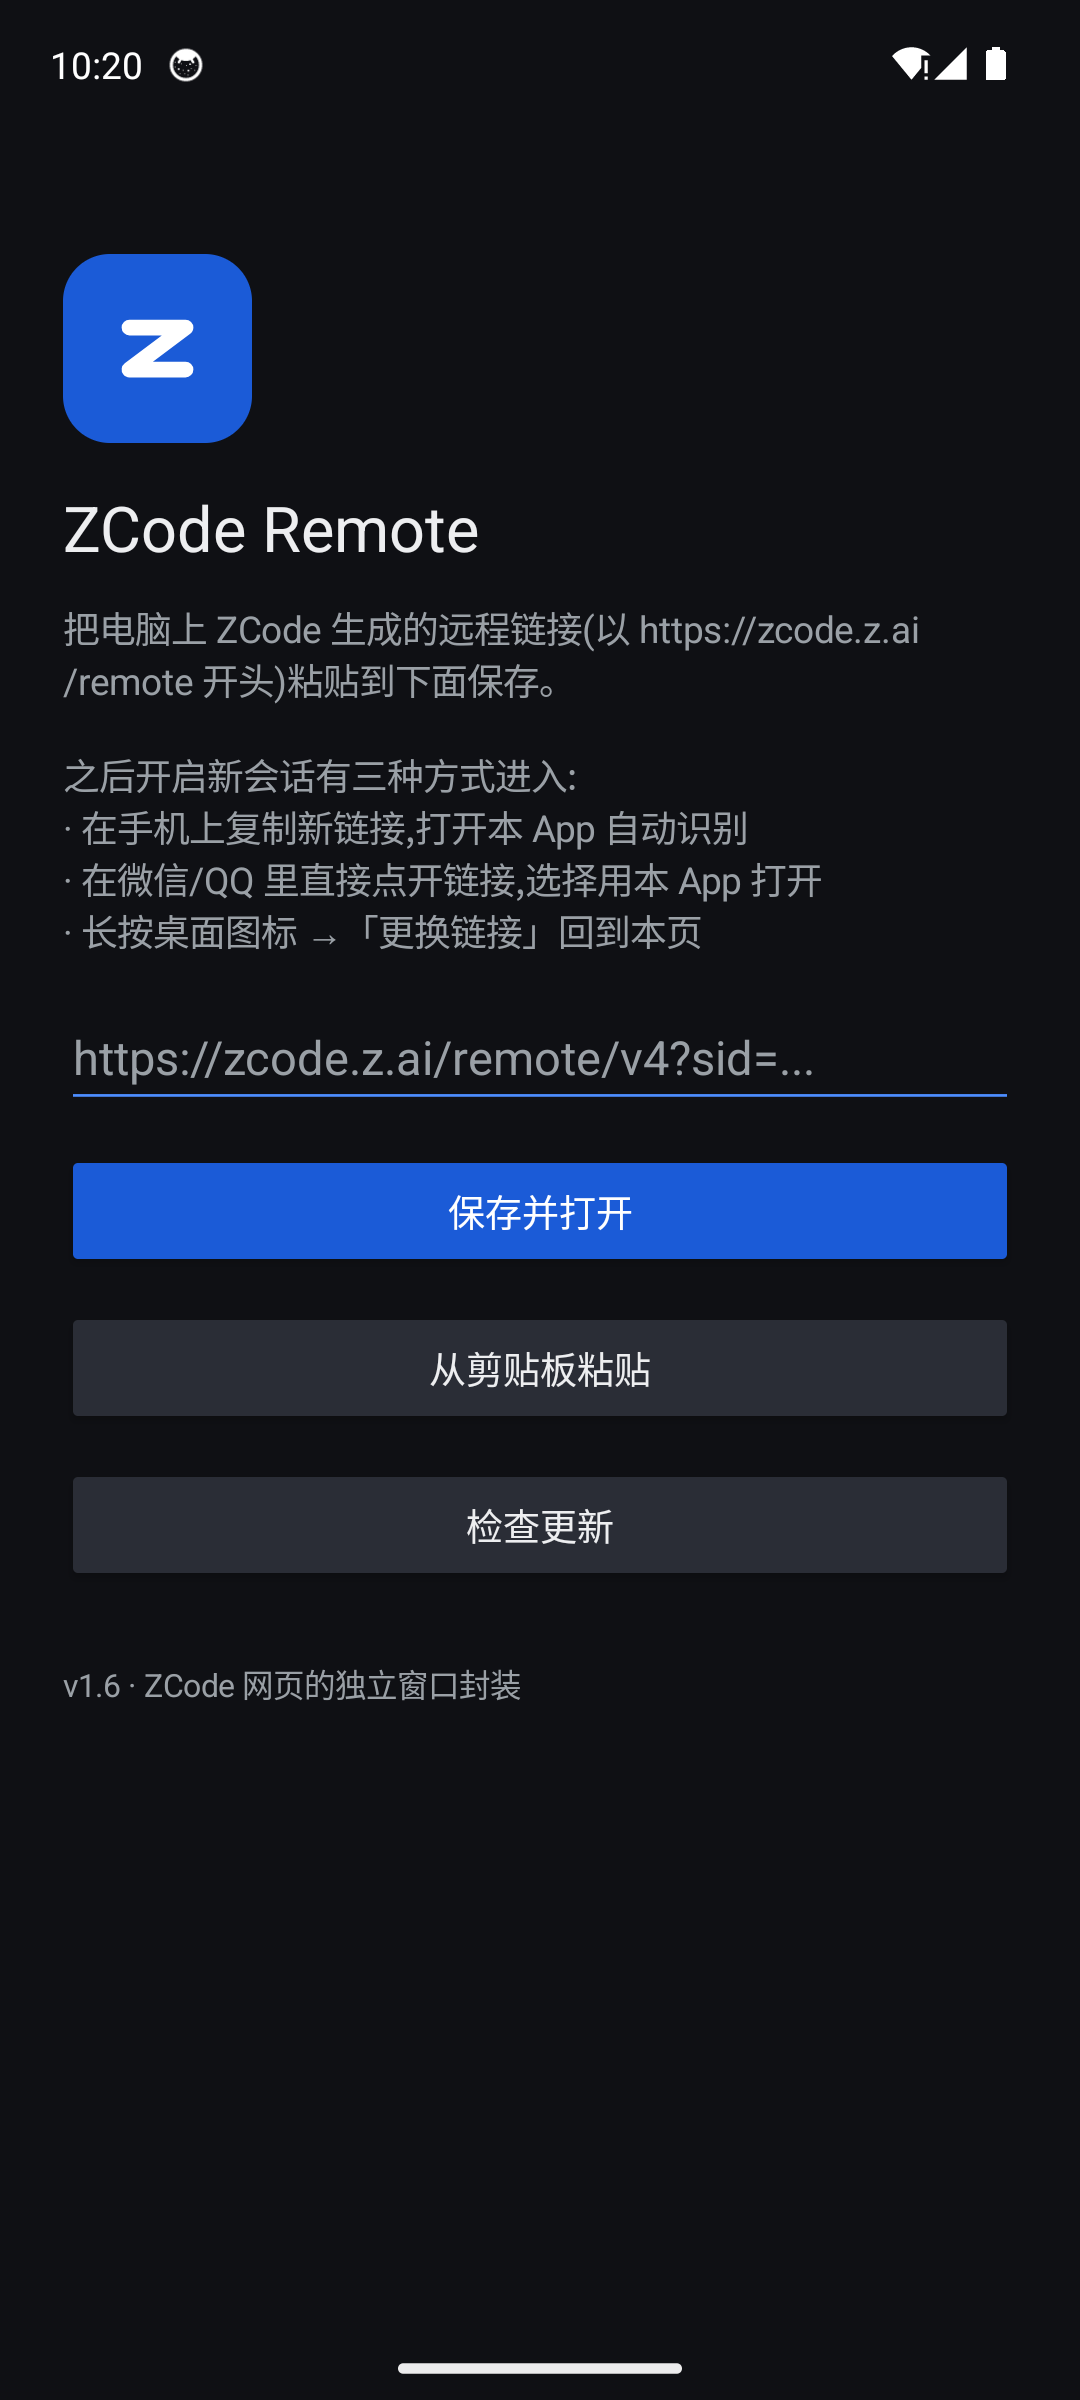
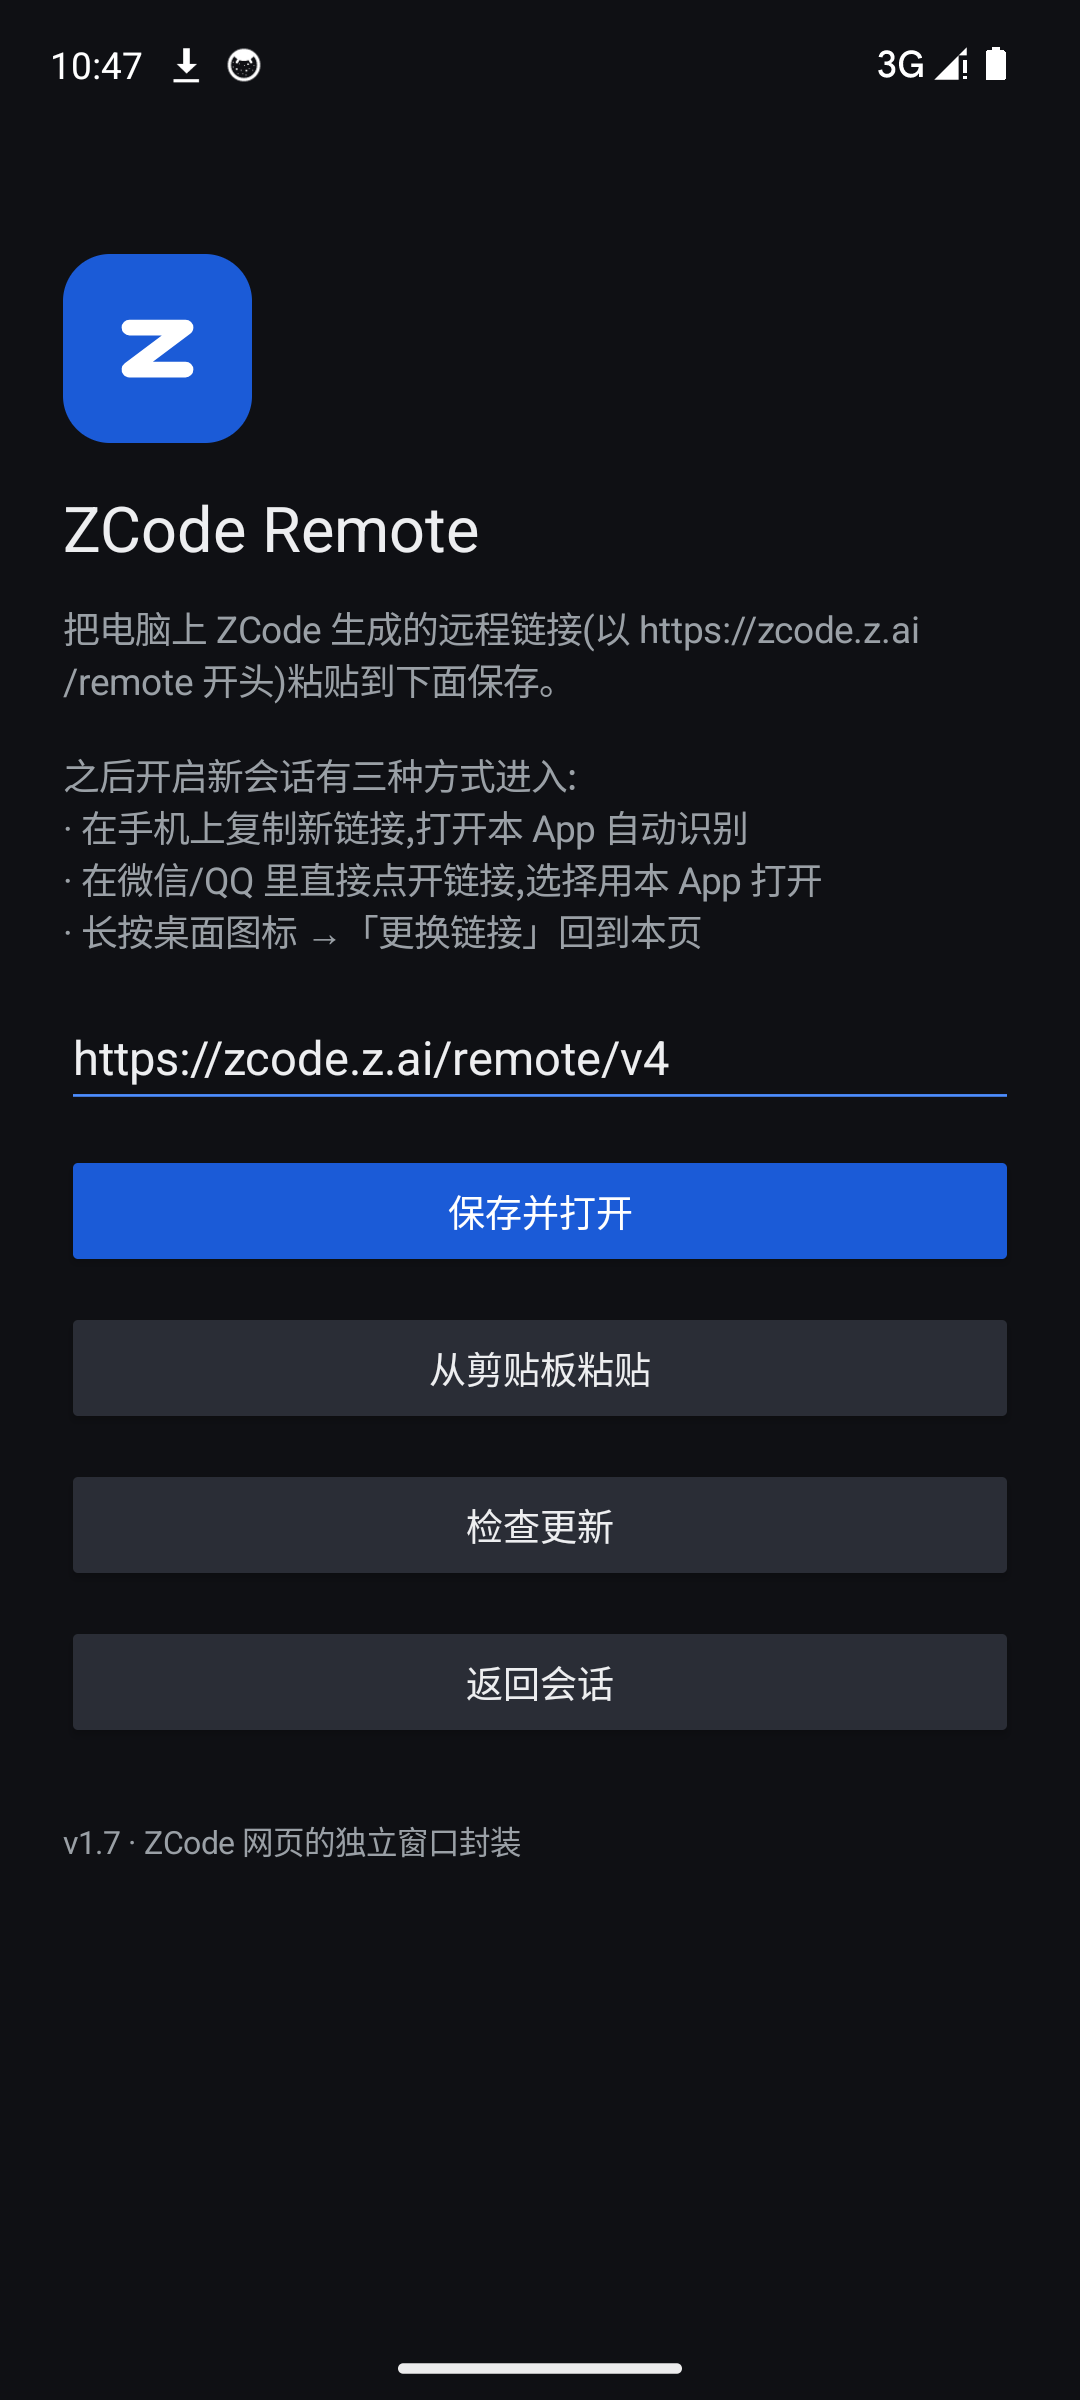
v1.7: 菜单升级为功能面板(常用操作/设置开关/清除网页数据/关于);设置页加返回会话;悬浮按钮与自动更新可开关

diff --git a/app/src/main/java/com/zcode/remote/MainActivity.java b/app/src/main/java/com/zcode/remote/MainActivity.java
@@ -42,6 +42,7 @@ import android.widget.ImageView;
 import android.widget.LinearLayout;
 import android.widget.ProgressBar;
 import android.widget.ScrollView;
+import android.widget.Switch;
 import android.widget.TextView;
 import android.widget.Toast;
 
@@ -56,10 +57,12 @@ public class MainActivity extends Activity {
     private static final String KEY_URL = "url";
     private static final String KEY_FAB_X = "fab_x";
     private static final String KEY_FAB_Y = "fab_y";
+    private static final String KEY_SHOW_FAB = "show_fab";
+    private static final String KEY_AUTO_UPDATE = "auto_update";
     private static final String ACTION_CHANGE_URL = "com.zcode.remote.CHANGE_URL";
     private static final Pattern REMOTE_URL = Pattern.compile("https://zcode\\.z\\.ai/remote\\S*");
     // 版本自动更新:GitHub Releases 元数据,tag 命名 v1.3,asset 为任意 .apk
-    private static final String APP_VERSION = "1.6";
+    private static final String APP_VERSION = "1.7";
     private static final String RELEASE_API = "https://api.github.com/repos/LShang001/zcode-remote/releases/latest";
     private static final Pattern TAG_JSON = Pattern.compile("\"tag_name\"\\s*:\\s*\"v?([0-9][0-9.]*)\"");
     private static final Pattern APK_URL_JSON = Pattern.compile("\"browser_download_url\"\\s*:\\s*\"([^\"]+\\.apk)\"");
@@ -86,6 +89,8 @@ public class MainActivity extends Activity {
     private ProgressBar updateBar;
     private TextView updateText;
     private Handler updateHandler;
+    private TextView fab;
+    private AlertDialog menuDialog;
     private final Runnable progressPoller = new Runnable() {
         @Override
         public void run() {
@@ -163,7 +168,9 @@ public class MainActivity extends Activity {
         root.setBackgroundColor(BG);
         setContentView(root);
         route(getIntent());
-        checkUpdate(false);
+        if (getPreferences(Context.MODE_PRIVATE).getBoolean(KEY_AUTO_UPDATE, true)) {
+            checkUpdate(false);
+        }
     }
 
     @Override
@@ -365,7 +372,8 @@ public class MainActivity extends Activity {
         SharedPreferences prefs = getPreferences(Context.MODE_PRIVATE);
         fabLp.leftMargin = prefs.getInt(KEY_FAB_X, dp(16));
         fabLp.topMargin = prefs.getInt(KEY_FAB_Y, dp(40));
-        TextView fab = menuFab();
+        fab = menuFab();
+        fab.setVisibility(prefs.getBoolean(KEY_SHOW_FAB, true) ? View.VISIBLE : View.GONE);
         container.addView(fab, fabLp);
         container.post(() -> {
             // 换设备/旋转后旧位置可能越界,布局完成时兜底拉回屏内
@@ -446,35 +454,193 @@ public class MainActivity extends Activity {
 
     private void showMenu() {
         final String url = getPreferences(Context.MODE_PRIVATE).getString(KEY_URL, "");
-        String shown = url.length() > 46 ? url.substring(0, 43) + "…" : url;
-        new AlertDialog.Builder(this)
-                .setTitle("ZCode Remote v" + APP_VERSION)
-                .setMessage("当前会话:\n" + shown
-                        + "\n\n链接失效了?在电脑上复制新链接,回到本 App 会自动切换。\n(长按拖动 ⋮ 按钮可移动位置)")
-                .setItems(new String[]{"刷新会话", "更换链接", "复制当前链接", "检查更新"}, (d, which) -> {
-                    switch (which) {
-                        case 0:
-                            if (webView != null) {
-                                webView.reload();
-                            }
-                            break;
-                        case 1:
-                            showSetup(url, null);
-                            break;
-                        case 2:
-                            try {
-                                ClipboardManager cm = (ClipboardManager) getSystemService(Context.CLIPBOARD_SERVICE);
-                                cm.setPrimaryClip(ClipData.newPlainText("url", url));
-                                Toast.makeText(this, "已复制当前链接", Toast.LENGTH_SHORT).show();
-                            } catch (Exception ignored) {
-                            }
-                            break;
-                        case 3:
-                            checkUpdate(true);
-                            break;
-                    }
-                })
+        LinearLayout box = new LinearLayout(this);
+        box.setOrientation(LinearLayout.VERTICAL);
+
+        TextView title = new TextView(this);
+        title.setText("ZCode Remote · v" + APP_VERSION);
+        title.setTextSize(TypedValue.COMPLEX_UNIT_SP, 20);
+        title.setTextColor(FG);
+        title.setPadding(0, 0, 0, dp(4));
+        box.addView(title);
+
+        TextView session = new TextView(this);
+        session.setText("当前会话:" + (url.isEmpty() ? "(未设置)" : url));
+        session.setTextSize(TypedValue.COMPLEX_UNIT_SP, 12);
+        session.setTextColor(FG_DIM);
+        session.setPadding(0, 0, 0, dp(8));
+        box.addView(session);
+
+        box.addView(panelRow("⟳", "刷新会话", "重新加载当前会话页面", v -> {
+            dismissMenu();
+            if (webView != null) {
+                webView.reload();
+            }
+        }));
+        box.addView(panelRow("✎", "更换链接", "回到设置页,粘贴新的远程链接", v -> {
+            dismissMenu();
+            showSetup(url, null);
+        }));
+        box.addView(panelRow("⧉", "复制当前链接", "把会话链接复制到剪贴板", v -> {
+            try {
+                ClipboardManager cm = (ClipboardManager) getSystemService(Context.CLIPBOARD_SERVICE);
+                cm.setPrimaryClip(ClipData.newPlainText("url", url));
+                Toast.makeText(this, "已复制当前链接", Toast.LENGTH_SHORT).show();
+            } catch (Exception ignored) {
+            }
+        }));
+        box.addView(panelRow("⬇", "检查更新", "查看 GitHub 上是否有新版本", v -> checkUpdate(true)));
+
+        box.addView(panelHeader("设置"));
+        box.addView(panelSwitch("悬浮按钮", "显示会话页的 ⋮ 菜单按钮", KEY_SHOW_FAB, (c) -> {
+            if (fab != null) {
+                fab.setVisibility(c ? View.VISIBLE : View.GONE);
+            }
+            Toast.makeText(this, c ? "悬浮按钮已开启"
+                    : "已隐藏,从设置页可再开启", Toast.LENGTH_SHORT).show();
+        }));
+        box.addView(panelSwitch("启动时自动检查更新", "打开 App 时在后台静默检查", KEY_AUTO_UPDATE, (c) -> {
+        }));
+
+        box.addView(panelHeader("工具"));
+        box.addView(panelRow("✕", "清除网页数据", "解决网页卡死或状态错乱(清 Cookie/缓存)", v -> confirmClearData()));
+        box.addView(panelRow("ⓘ", "关于本应用", "版本信息与使用说明", v -> showAbout(url)));
+
+        TextView footer = new TextView(this);
+        footer.setText("ZCode Remote v" + APP_VERSION + " · 网页的独立窗口封装");
+        footer.setTextSize(TypedValue.COMPLEX_UNIT_SP, 11);
+        footer.setTextColor(FG_DIM);
+        footer.setGravity(Gravity.CENTER_HORIZONTAL);
+        footer.setPadding(0, dp(14), 0, 0);
+        box.addView(footer);
+
+        ScrollView sc = new ScrollView(this);
+        sc.addView(box);
+        LinearLayout wrap = new LinearLayout(this);
+        wrap.setOrientation(LinearLayout.VERTICAL);
+        wrap.setPadding(dp(24), dp(20), dp(24), dp(16));
+        wrap.addView(sc);
+
+        menuDialog = new AlertDialog.Builder(this)
+                .setView(wrap)
                 .setNegativeButton("关闭", null)
+                .show();
+    }
+
+    private void dismissMenu() {
+        if (menuDialog != null && menuDialog.isShowing()) {
+            try {
+                menuDialog.dismiss();
+            } catch (Exception ignored) {
+            }
+        }
+    }
+
+    private View panelRow(String icon, String title, String sub, View.OnClickListener action) {
+        LinearLayout row = new LinearLayout(this);
+        row.setOrientation(LinearLayout.HORIZONTAL);
+        row.setGravity(Gravity.CENTER_VERTICAL);
+        row.setPadding(0, dp(10), 0, dp(10));
+        row.setOnClickListener(action);
+
+        TextView ic = new TextView(this);
+        ic.setText(icon);
+        ic.setTextSize(TypedValue.COMPLEX_UNIT_SP, 17);
+        ic.setTextColor(ACCENT);
+        ic.setWidth(dp(34));
+        ic.setGravity(Gravity.CENTER);
+        row.addView(ic);
+
+        LinearLayout txt = new LinearLayout(this);
+        txt.setOrientation(LinearLayout.VERTICAL);
+        TextView t = new TextView(this);
+        t.setText(title);
+        t.setTextSize(TypedValue.COMPLEX_UNIT_SP, 15);
+        t.setTextColor(FG);
+        txt.addView(t);
+        if (sub != null) {
+            TextView s = new TextView(this);
+            s.setText(sub);
+            s.setTextSize(TypedValue.COMPLEX_UNIT_SP, 12);
+            s.setTextColor(FG_DIM);
+            txt.addView(s);
+        }
+        row.addView(txt, new LinearLayout.LayoutParams(0,
+                ViewGroup.LayoutParams.WRAP_CONTENT, 1));
+        return row;
+    }
+
+    private TextView panelHeader(String text) {
+        TextView h = new TextView(this);
+        h.setText(text);
+        h.setTextSize(TypedValue.COMPLEX_UNIT_SP, 12);
+        h.setTextColor(ACCENT);
+        h.setPadding(0, dp(14), 0, dp(2));
+        return h;
+    }
+
+    private interface SwitchChanged {
+        void onChanged(boolean checked);
+    }
+
+    private View panelSwitch(String title, String sub, String prefKey, SwitchChanged onChanged) {
+        LinearLayout row = new LinearLayout(this);
+        row.setOrientation(LinearLayout.HORIZONTAL);
+        row.setGravity(Gravity.CENTER_VERTICAL);
+        row.setPadding(0, dp(8), 0, dp(8));
+
+        LinearLayout txt = new LinearLayout(this);
+        txt.setOrientation(LinearLayout.VERTICAL);
+        TextView t = new TextView(this);
+        t.setText(title);
+        t.setTextSize(TypedValue.COMPLEX_UNIT_SP, 15);
+        t.setTextColor(FG);
+        txt.addView(t);
+        if (sub != null) {
+            TextView s = new TextView(this);
+            s.setText(sub);
+            s.setTextSize(TypedValue.COMPLEX_UNIT_SP, 12);
+            s.setTextColor(FG_DIM);
+            txt.addView(s);
+        }
+        row.addView(txt, new LinearLayout.LayoutParams(0,
+                ViewGroup.LayoutParams.WRAP_CONTENT, 1));
+
+        Switch sw = new Switch(this);
+        sw.setChecked(getPreferences(Context.MODE_PRIVATE).getBoolean(prefKey, true));
+        sw.setOnCheckedChangeListener((v, c) -> {
+            getPreferences(Context.MODE_PRIVATE).edit().putBoolean(prefKey, c).apply();
+            onChanged.onChanged(c);
+        });
+        row.addView(sw);
+        return row;
+    }
+
+    private void confirmClearData() {
+        new AlertDialog.Builder(this)
+                .setTitle("清除网页数据")
+                .setMessage("会删除网页的 Cookie、缓存和本地存储。\n\n用于网页卡死、状态错乱时强制重置;不影响已保存的远程链接。确定继续吗?")
+                .setPositiveButton("清除并刷新", (d, w) -> {
+                    dismissMenu();
+                    CookieManager.getInstance().removeAllCookies(null);
+                    if (webView != null) {
+                        webView.clearCache(true);
+                        webView.clearFormData();
+                        webView.reload();
+                    }
+                    Toast.makeText(this, "网页数据已清除,正在刷新", Toast.LENGTH_SHORT).show();
+                })
+                .setNegativeButton("取消", null)
+                .show();
+    }
+
+    private void showAbout(String url) {
+        new AlertDialog.Builder(this)
+                .setTitle("关于 ZCode Remote")
+                .setMessage("版本:v" + APP_VERSION
+                        + "\n\n当前会话:\n" + (url.isEmpty() ? "(未设置)" : url)
+                        + "\n\n说明:\n把 ZCode 桌面端的远程控制网页封装成独立 App,只做装载与移动体验增强,网页功能归 ZCode 官方。")
+                .setPositiveButton("关闭", null)
                 .show();
     }
 
@@ -599,6 +765,15 @@ public class MainActivity extends Activity {
         styleSecondary(check);
         box.addView(check, buttonLp());
         check.setOnClickListener(v -> checkUpdate(true));
+
+        final String savedUrl = getPreferences(Context.MODE_PRIVATE).getString(KEY_URL, null);
+        if (savedUrl != null) {
+            Button back = new Button(this);
+            back.setText("返回会话");
+            styleSecondary(back);
+            box.addView(back, buttonLp());
+            back.setOnClickListener(v -> showWeb(savedUrl));
+        }
 
         TextView footer = new TextView(this);
         footer.setText("v" + APP_VERSION + " · ZCode 网页的独立窗口封装");
@@ -930,6 +1105,7 @@ public class MainActivity extends Activity {
     @Override
     protected void onDestroy() {
         dismissUpdateDialog();
+        dismissMenu();
         unregisterReceiver(downloadDone);
         destroyWeb();
         super.onDestroy();
